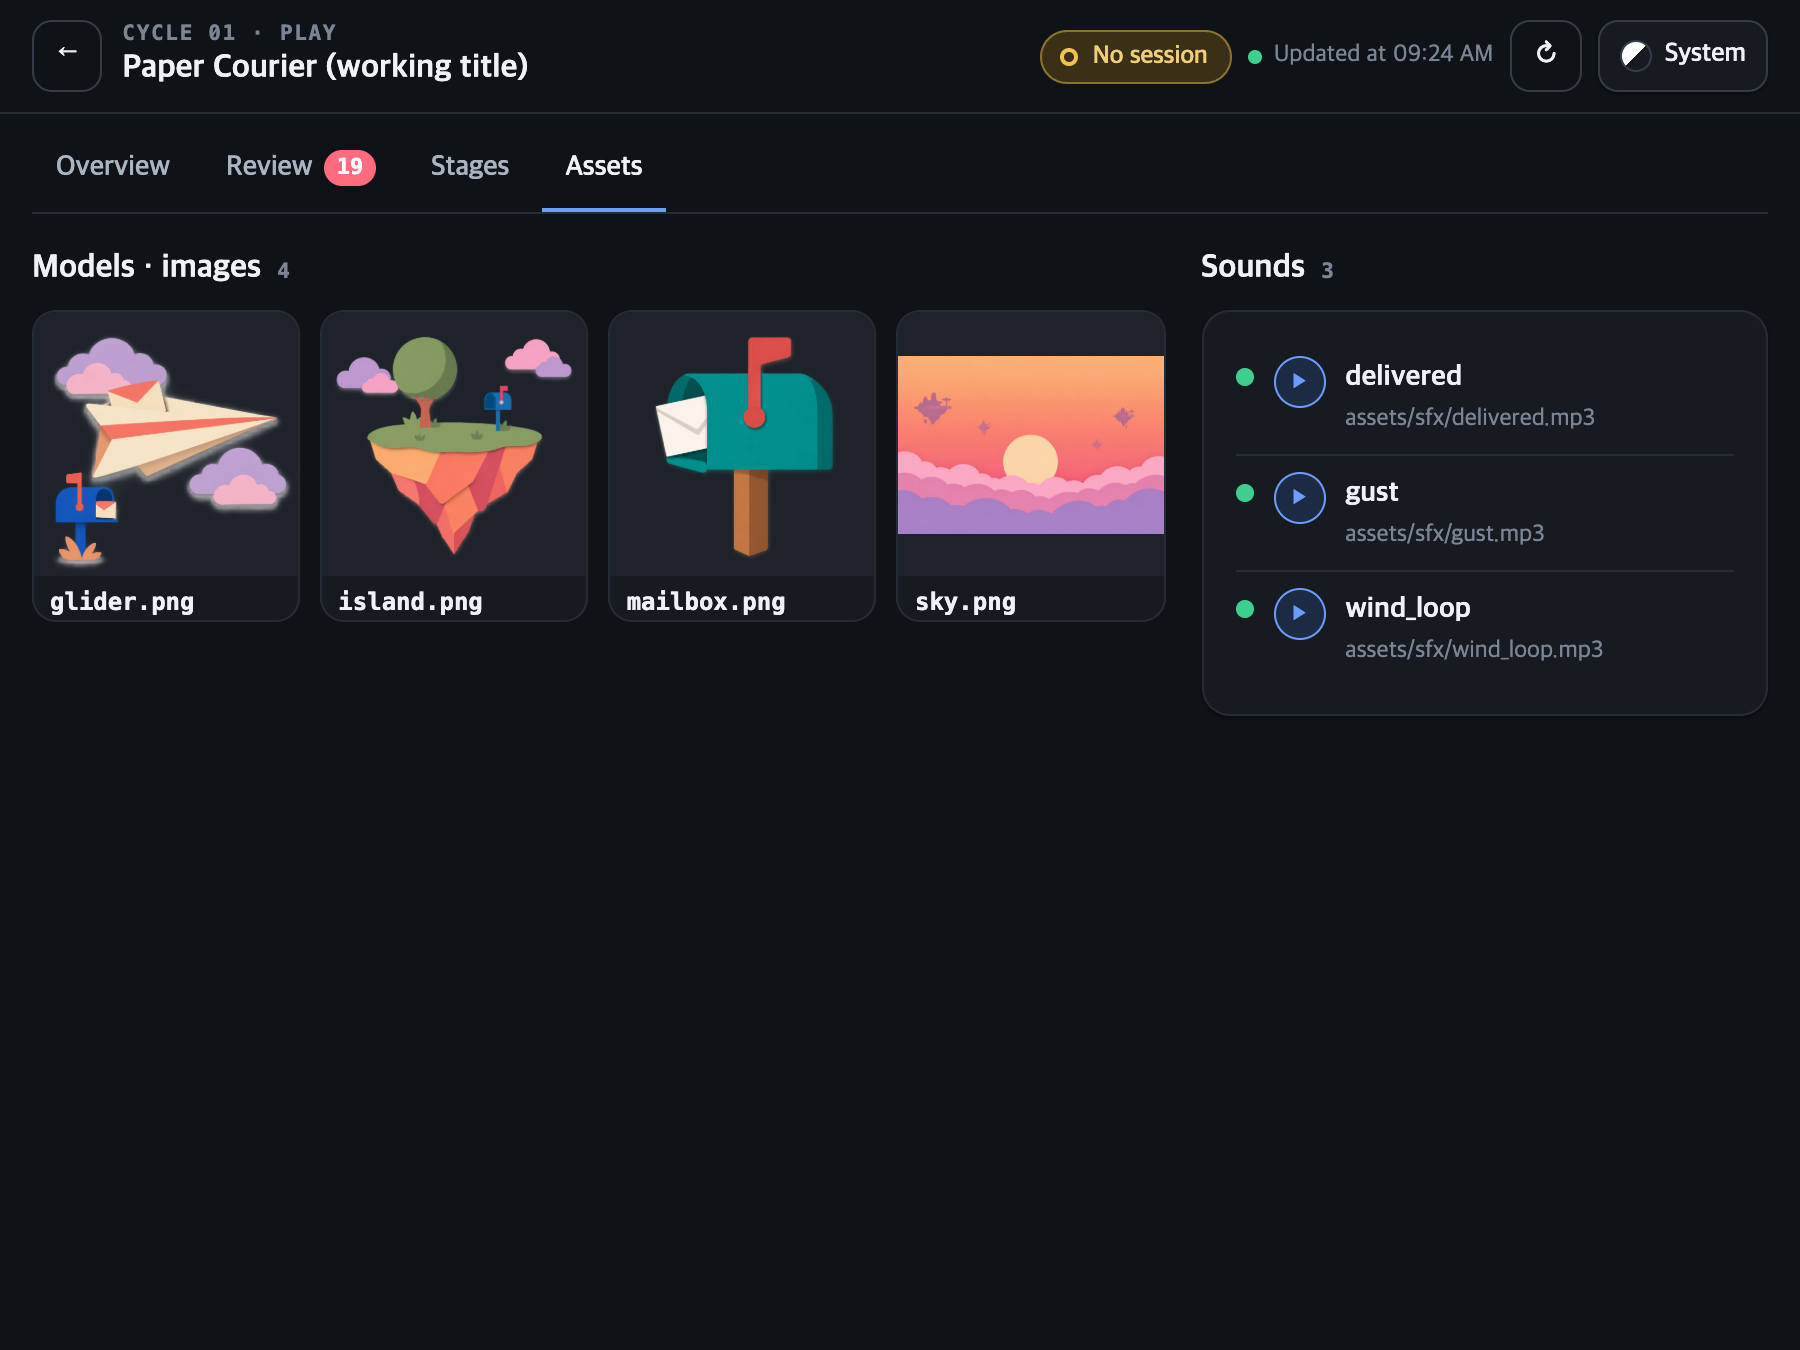
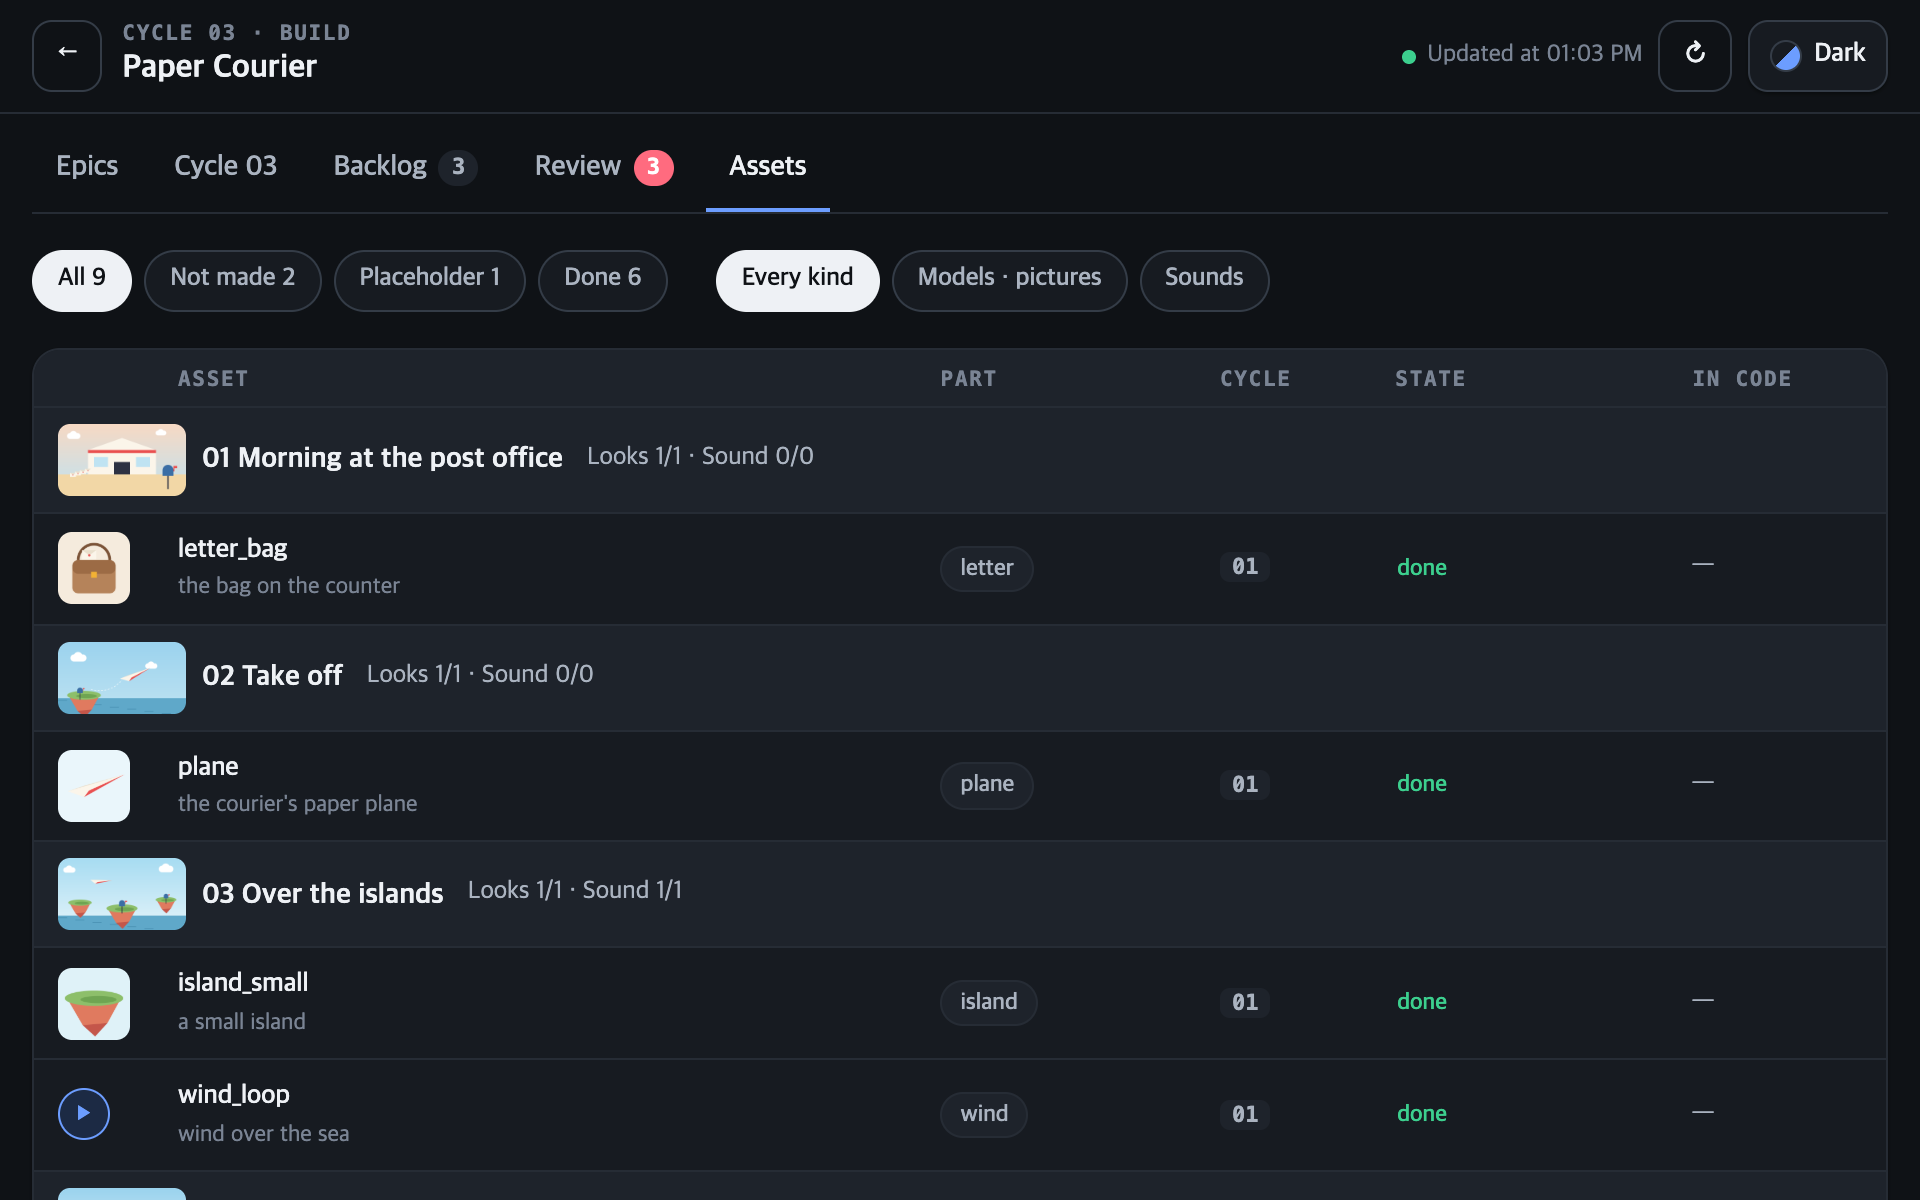
Landing: the dashboard scenes taken again from sample games — epics, a cycle as a board, a task

diff --git a/app/content.ts b/app/content.ts
@@ -39,7 +39,7 @@ const en = {
   reasons: [
     { id: "dashboard", problem: "You lose sight of where it stands",
       title: "See it all, decide on the spot",
-      text: "Every game's progress lands on one dashboard. Each stage shows how far its function, art, sound and testing have come, and every question from the agents arrives as a card with pictures to compare. Pick an answer and Claude carries on." },
+      text: "Every game's progress lands on one dashboard. Each part of the game is an epic with its tasks laid out by cycle, and every question from the agents arrives as a card with pictures to compare. Pick an answer and Claude carries on." },
     { id: "sync", problem: "The design doc and the code drift apart",
       title: "The doc and the code always match",
       text: "Every number and rule in the design doc gets an ID, and the code carries the same ID. When the two disagree or something isn't built yet, the kit catches it — say which side is right and it fixes the other. Balance numbers live on one spreadsheet you can read and edit." },
@@ -53,21 +53,21 @@ const en = {
       { img: "/board-games.png", title: "All your games, one screen",
         text: "Pending decisions and progress for every game at once.",
         alt: "The dashboard home: three games, what waits on you in each, and how far each has come" },
-      { img: "/dashboard.png", title: "Progress, stage by stage",
-        text: "In the order the player meets them — how far each stage's function, art, sound and testing have come.",
-        alt: "One game's overview: stage cards in play order with art thumbnails, beside the current cycle and what is still undecided" },
-      { img: "/board-stage.png", title: "Open a stage",
-        text: "The design items, art and sound in it — look and listen right there.",
-        alt: "The Pressure and time stage: its design rows, three pictures and a sound you can play" },
-      { img: "/board-assets.png", title: "Every asset side by side",
-        text: "All the art and sound together, so you can tell whether they match.",
-        alt: "The assets tab: four paper-cut pictures and three sounds" },
+      { img: "/board-epics.png", title: "The game as epics",
+        text: "Each part the player meets is an epic. Open one and its tasks line up by cycle.",
+        alt: "The Epics tab: epic cards with their screens and task counts, one opened below with its cycles in a row and that cycle's tasks" },
+      { img: "/board-cycle.png", title: "Each cycle as a board",
+        text: "The cycle's goal and stage on top, its tasks in to do, in hand, blocked and done.",
+        alt: "The Cycle tab: the cycle's goal and its six stages, then its tasks in four columns" },
+      { img: "/board-task.png", title: "Open a task",
+        text: "What it is, how the game will change, and what changed — in a sentence each.",
+        alt: "A task's panel: what it is, how it will change, and what changed" },
       { img: "/review.png", title: "Answer the agents' questions",
         text: "Each question from the agents comes with pictures to compare and shows the direction they recommend.",
-        alt: "The review tab: a decision with three concept pictures to compare above its options, and a decision with a recommended answer" },
-      { img: "/board-checks.png", title: "Play, then check",
-        text: "What only playing can tell comes as a checklist.",
-        alt: "Checks by playing: each with OK and Problem buttons and a note for what you saw" },
+        alt: "The review tab: a decision with three wing drafts to compare above its options, and a decision with a recommended answer" },
+      { img: "/board-assets.png", title: "Every asset side by side",
+        text: "All the art and sound together, by epic, so you can tell whether they match.",
+        alt: "The assets tab: every picture and sound grouped by epic, each with its state" },
     ] as Scene[],
   },
   sync: {
@@ -146,7 +146,7 @@ const ko: Copy = {
   reasons: [
     { id: "dashboard", problem: "어디까지 했는지 흐려진다",
       title: "한눈에 보고, 그 자리에서 결정합니다",
-      text: "모든 게임의 진행 상황이 대시보드 한 화면에 모입니다. 단계마다 기능·아트·사운드·검증이 어디까지 됐는지 보이고, 에이전트의 질문은 비교할 그림과 함께 카드로 도착합니다. 고르기만 하면 Claude가 이어서 작업합니다." },
+      text: "모든 게임의 진행 상황이 대시보드 한 화면에 모입니다. 게임의 각 부분이 에픽이 되어 태스크가 사이클별로 보이고, 에이전트의 질문은 비교할 그림과 함께 카드로 도착합니다. 고르기만 하면 Claude가 이어서 작업합니다." },
     { id: "sync", problem: "기획서와 코드가 따로 논다",
       title: "기획서와 코드가 늘 일치합니다",
       text: "기획서의 숫자와 규칙마다 ID가 붙고, 코드에도 같은 ID가 남습니다. 둘이 달라지거나 아직 구현되지 않은 항목이 생기면 키트가 바로 찾아내고, 어느 쪽이 맞는지만 정하면 나머지를 맞춰 줍니다. 밸런스 수치는 엑셀 한 장으로 보고 고칠 수 있습니다." },
@@ -160,21 +160,21 @@ const ko: Copy = {
       { img: "/board-games.png", title: "모든 게임을 한 화면에",
         text: "게임마다 남은 결정과 진행률을 한 번에 봅니다.",
         alt: "대시보드 첫 화면: 게임 세 개, 게임마다 나를 기다리는 것과 진행 정도" },
-      { img: "/dashboard.png", title: "단계별 진행 현황",
-        text: "플레이어가 만나는 순서대로, 단계마다 기능·아트·사운드·검증이 얼마나 됐는지 봅니다.",
-        alt: "한 게임의 개요: 아트 썸네일이 붙은 단계 카드가 플레이 순서대로 놓이고, 옆에 지금 사이클과 아직 정하지 않은 것" },
-      { img: "/board-stage.png", title: "단계를 열면",
-        text: "그 단계에 들어간 기획 항목과 그림, 사운드를 바로 보고 들어 봅니다.",
-        alt: "'압박과 시간' 단계: 기획 항목, 그림 세 장, 재생할 수 있는 사운드 하나" },
-      { img: "/board-assets.png", title: "에셋을 나란히",
-        text: "만든 그림과 소리를 한데 놓고 톤이 맞는지 봅니다.",
-        alt: "에셋 탭: 종이 공예 스타일 그림 네 장과 사운드 세 개" },
+      { img: "/board-epics.png", title: "게임을 에픽으로",
+        text: "플레이어가 만나는 부분 하나가 에픽 하나입니다. 열면 그 에픽의 태스크가 사이클별로 놓입니다.",
+        alt: "에픽 탭: 화면과 태스크 수가 붙은 에픽 카드, 그 아래 연 에픽의 사이클 줄과 그 사이클의 태스크" },
+      { img: "/board-cycle.png", title: "사이클은 보드로",
+        text: "위에는 사이클의 목표와 단계, 아래에는 할 일·진행 중·막힘·끝으로 나뉜 태스크.",
+        alt: "사이클 탭: 사이클의 목표와 여섯 단계, 그 아래 네 칸으로 나뉜 태스크" },
+      { img: "/board-task.png", title: "태스크를 열면",
+        text: "무엇인지, 게임이 어떻게 바뀔지, 무엇이 바뀌었는지를 한 문장씩 봅니다.",
+        alt: "태스크 패널: 무엇인지, 어떻게 바뀔지, 무엇이 바뀌었는지" },
       { img: "/review.png", title: "에이전트의 질문에 답하기",
         text: "에이전트의 질문에 비교할 그림을 붙이고, 추천하는 방향을 보여줍니다.",
-        alt: "리뷰 탭: 컨셉 그림 세 장을 비교하며 고르는 결정, 추천 답이 붙은 결정" },
-      { img: "/board-checks.png", title: "플레이해 보고 체크",
-        text: "직접 해 봐야 아는 것은 체크 항목으로 옵니다.",
-        alt: "플레이해서 확인할 항목: 항목마다 OK·문제 버튼과 본 것을 적는 칸" },
+        alt: "리뷰 탭: 날개 시안 세 장을 비교하며 고르는 결정, 추천 답이 붙은 결정" },
+      { img: "/board-assets.png", title: "에셋을 나란히",
+        text: "그림과 소리를 에픽별로 한데 놓고 톤이 맞는지 봅니다.",
+        alt: "에셋 탭: 에픽별로 묶인 그림과 소리, 각각의 상태" },
     ],
   },
   sync: {
